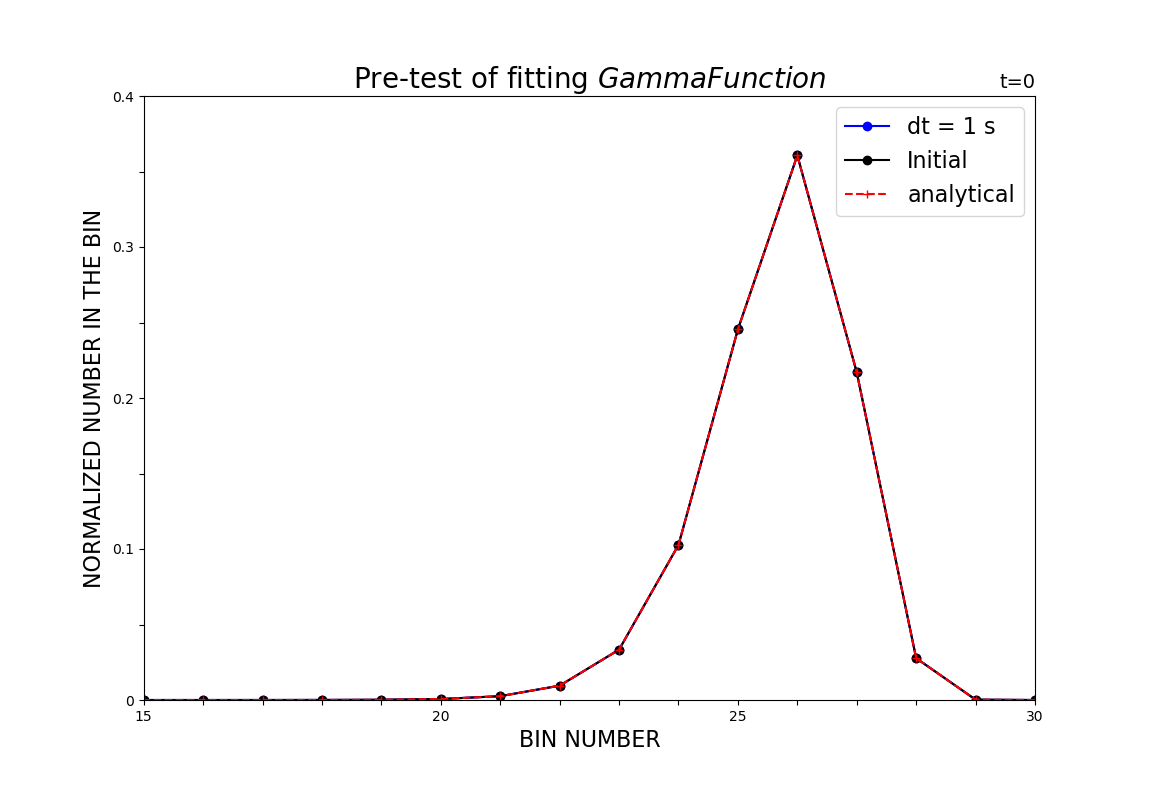
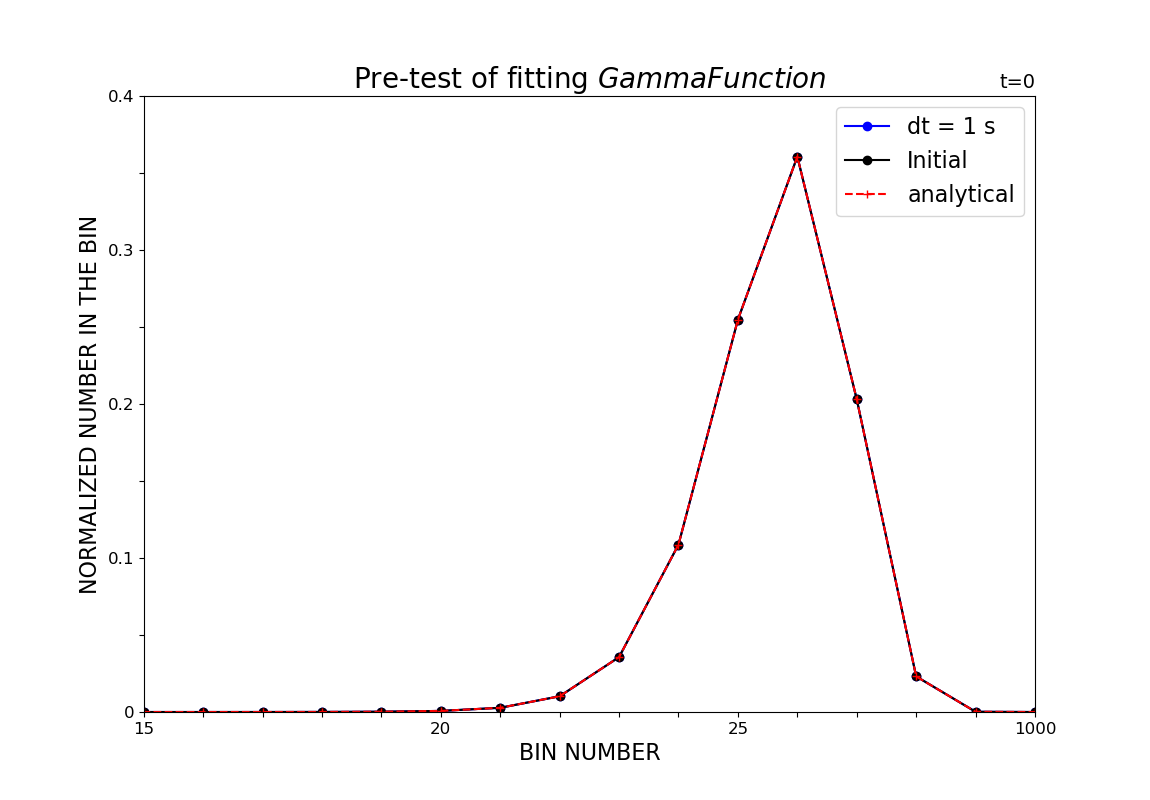
constant fi

diff --git a/replicate.py b/replicate.py
@@ -5,16 +5,17 @@ import scipy.integrate as integrate
 
 normal_constant = 2.8e-4
 
+
+# dx/dt = Bs(x)^(1/3)
 B  = 4.15e-6
 s  = -0.3
 dt = 1
 
-print_lapse  = 100
-iteration    = 5001
+print_lapse  = 1
+iteration    = 1
 
 num_of_bin = 30 #number of bins
 xmax = 10
-
 
 def initial_function(x): #initial distribution
     #return -3.*x+2.5
@@ -24,6 +25,10 @@ def initial_function(x): #initial distribution
     return 4.*x*np.exp(-2.*x)
     #return x+1
 
+def analytical_sol(x):
+    xt = (x**(2./3.)-2./3.*B*s*t*dt)**(3./2.)
+    xt /= normal_constant
+    return (x**(-1./3.)*(x**(2./3.)-(2./3.)*B*s*t*dt)**(1./2.))*4.*xt*np.exp(-2.*xt)
 
 def x_growth_function(x,N,M):
     if(N==0 or M==0):
@@ -38,33 +43,37 @@ def M_growth_function(N,M):
     #return M+N*0.5
 
 
-
-
 power = 2.0
-#x1arr = np.linspace(0,xmax,num_of_bin+1)[:-1]
-x1arr = (power**(np.arange(0,num_of_bin+1)[:-1]-25))*normal_constant/1.47
-#x2arr = np.linspace(0,xmax,num_of_bin+1)[1:]
-x2arr = (power**(np.arange(0,num_of_bin+1)[1:]-25))*normal_constant/1.47
+""" Equal interval
+x1arr = np.linspace(0,xmax,num_of_bin+1)[:-1]
+x2arr = np.linspace(0,xmax,num_of_bin+1)[1:]
+#"""
+#""" Logarithmic interval
+test = 29.5 - 4
+x1arr = (power**(np.arange(0,num_of_bin+1)[:-1]-test))*normal_constant
+x2arr = (power**(np.arange(0,num_of_bin+1)[1:]-test))*normal_constant
+#"""
+
+# The array that store information in each shift
 dxarr = np.zeros(num_of_bin)
 dNarr = np.zeros(num_of_bin)
 dMarr = np.zeros(num_of_bin)
+
+
+# The Dictionary that control each bin
 Bindic = {}
-
-Nanalytical = np.zeros(num_of_bin)
-
-
 for i,x1,x2 in zip(range(num_of_bin),x1arr,x2arr):
     Bin = BN(initial_function,x1,x2)
     Bindic[i] = Bin
 
 plt.figure(figsize=(11.5,8))
 for t in range(iteration):
-
+    # The array of analytical solution
+    Nanalytical = np.zeros(num_of_bin)
+    # The array of each bin total Number
     N = np.zeros(num_of_bin)
-    
-    #plt.figure(figsize=(11.5,8))
 
-    for i,x1,x2 in zip(range(num_of_bin),x1arr,x2arr):
+    for i in range(num_of_bin):
         #print(i)
         bin1 = Bindic[i]
         bin1.state_compute(bin1.lbound,bin1.rbound)
@@ -103,16 +112,11 @@ for t in range(iteration):
         Bindic[i] = bin1
     
     if(t%print_lapse == 0):
-        def analytical_sol(x):
-            
-            xt = (x**(2./3.)-2./3.*B*s*t*dt)**(3./2.)
-            xt /= normal_constant
-            return (x**(-1./3.)*(x**(2./3.)-(2./3.)*B*s*t*dt)**(1./2.))*4.*xt*np.exp(-2.*xt)
         for j in range(num_of_bin):
             Nanalytical[j] = integrate.quad(analytical_sol,x1arr[j], x2arr[j])[0]
         if(not t):
             N_init = np.array(N)
-            #print(N_init)
+
         plt.title("Pre-test of fitting $Gamma Function$",fontsize=20)
         plt.title("t="+str(t),loc='right',fontsize=14)
         plt.plot(N/normal_constant,'o-b',label="dt = 1 s")
@@ -120,14 +124,14 @@ for t in range(iteration):
         plt.plot(Nanalytical/normal_constant,'+--r',label="analytical")
         plt.ylabel("NORMALIZED NUMBER IN THE BIN",fontsize=16)
         plt.xlabel("BIN NUMBER",fontsize=16)
-        plt.yticks(np.arange(0,0.41,0.05),["0","","0.1","","0.2","","0.3","","0.4"])
-        plt.xticks(np.arange(14,30),["15","","","","","20","","","","","25","","","","","30"])
+        plt.yticks(np.arange(0,0.41,0.05),["0","","0.1","","0.2","","0.3","","0.4"]) # 3.903034
+        plt.xticks(np.arange(14,30),["15","","","","","20","","","","","25","","","","",str(round(3/(4*np.pi)*2**(29.5-25.59696)*normal_constant*1e6))])
         plt.xlim(14,num_of_bin-1)
         plt.ylim(0,0.4)
         plt.legend(fontsize=16)
         #plt.grid()
         plt.savefig("./pic/"+str(t)+".png",dpi=100)
-        #plt.show()
+        plt.show()
         plt.clf()
         print(t,"Done")
 

diff --git a/main.py b/main.py
@@ -17,8 +17,8 @@ B  = 1e-3
 s  = -0.3
 dt = 1.
 
-print_lapse  = 50
-iteration    = 5000
+print_lapse  = 1
+iteration    = 1
 
 
 def x_growth_function(x,N,M):
